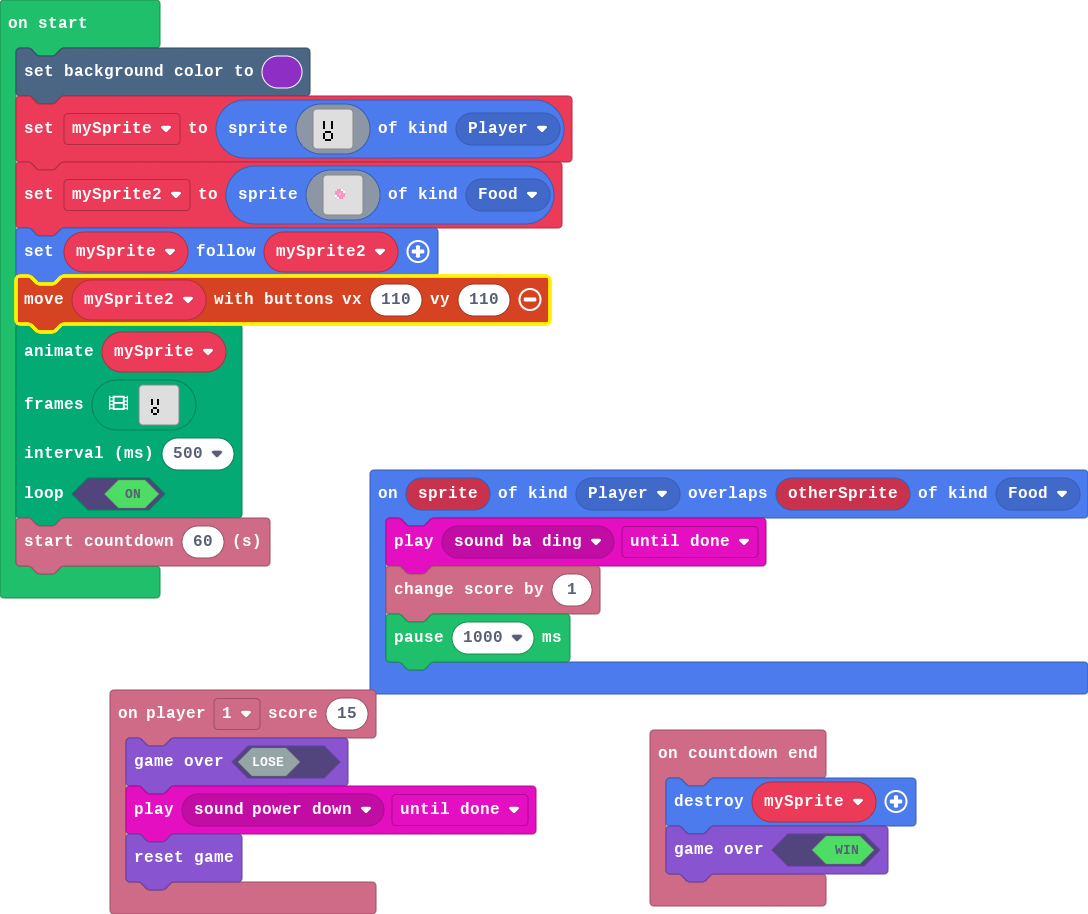
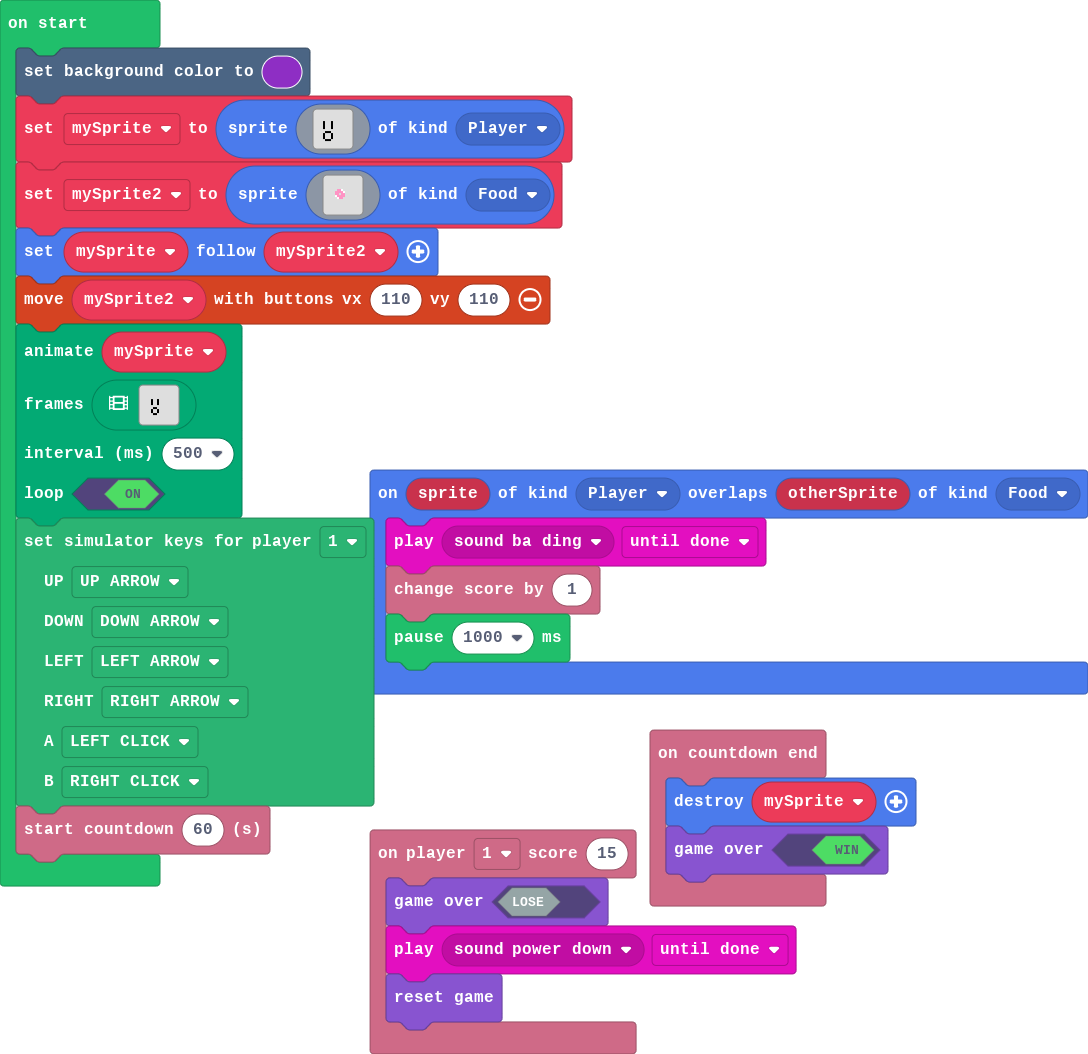
Update pxt.json, main.blocks, main.ts

diff --git a/main.ts b/main.ts
@@ -92,4 +92,13 @@ mySprite,
 500,
 true
 )
+MakeyMakey.setSimulatorKeymap(
+MakeyMakey.PlayerNumber.ONE,
+MakeyMakey.MakeyMakeyKey.UP,
+MakeyMakey.MakeyMakeyKey.DOWN,
+MakeyMakey.MakeyMakeyKey.LEFT,
+MakeyMakey.MakeyMakeyKey.RIGHT,
+MakeyMakey.MakeyMakeyKey.LEFT_CLICK,
+MakeyMakey.MakeyMakeyKey.RIGHT_CLICK
+)
 info.startCountdown(60)
